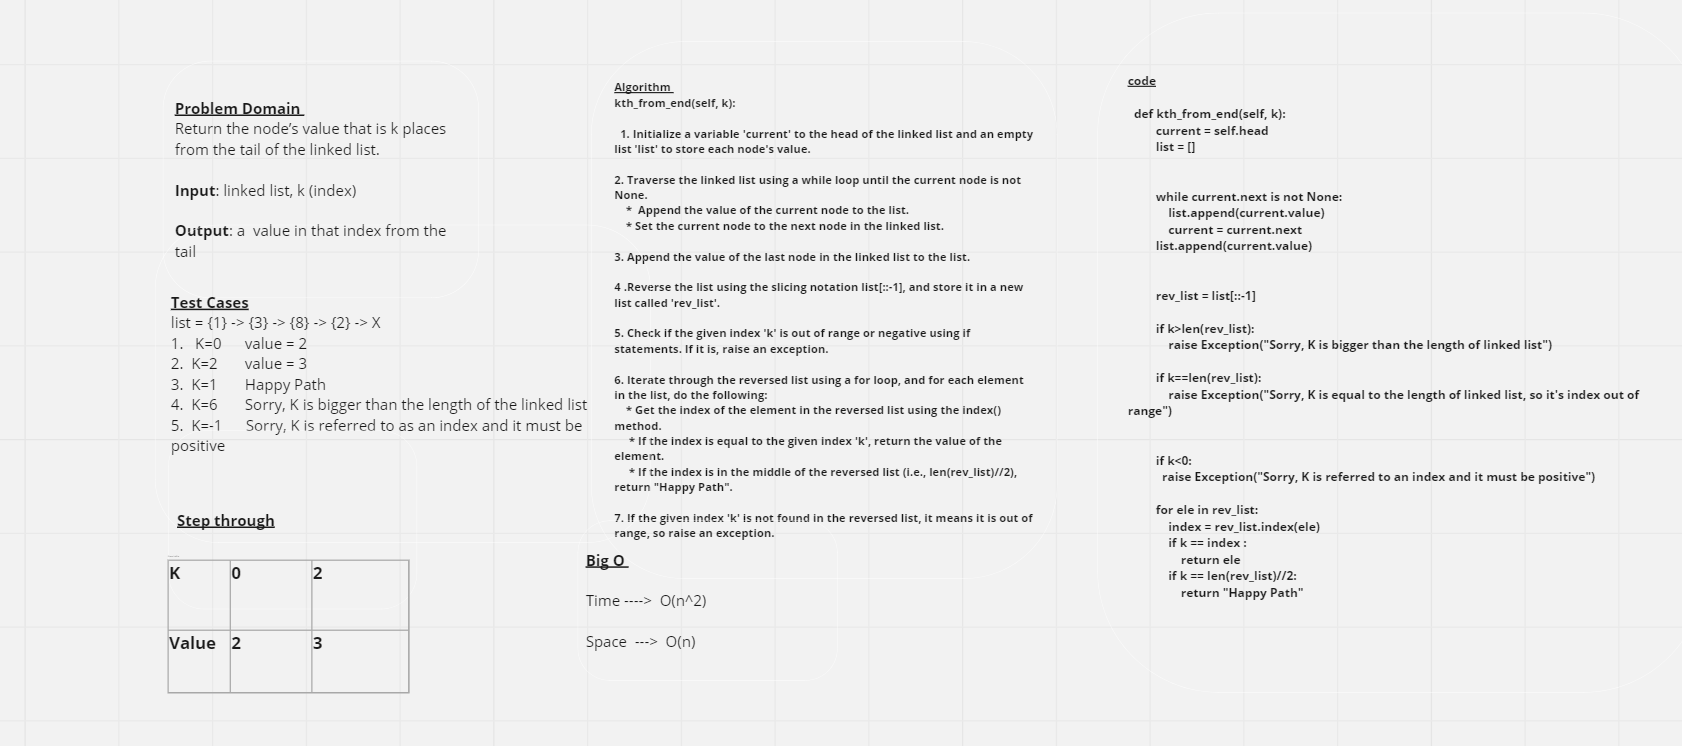
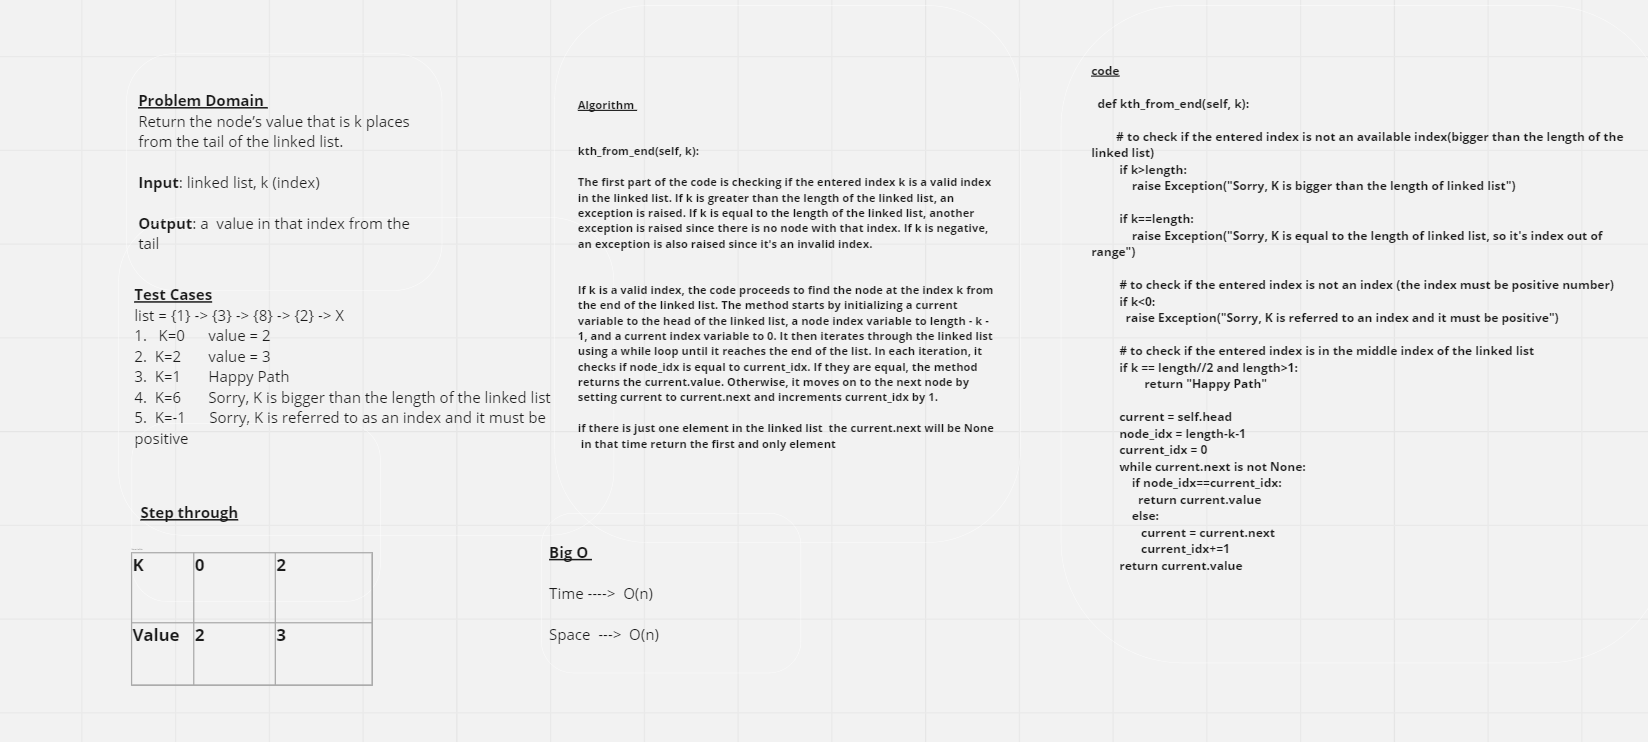
- [ ] Top-level README “Table of Contents” is updated  - [ ] README for this challenge is complete        - [ ] Summary, Description, Approach & Efficiency, Solution        - [ ] Picture of whiteboard        - [ ] Link to code  - [ ] Feature tasks for this challenge are completed  - [ ] Unit tests w

diff --git a/CC7/CC7_Code.py b/CC7/CC7_Code.py
@@ -1,4 +1,4 @@
-
+length = 0
 """This class is to create nodes which are the elements of any linked list"""
 class Node :
     def __init__(self, value):
@@ -6,24 +6,29 @@ class Node :
         self.value = value
         self.next = None
 
+
 """This class creating a linked list """
 class Linked_List:
      """this method intializes the head pointer which points to the fisrt node in the linked list """
      def __init__(self):
          self.head=None
+
     
      """this method to append node to the linked list, the node will be appended to the end of the linked list"""
      def append (self,value):
+         global  length
          node = Node(value)
 
          if self.head is None:
             self.head = node
+            length =1
 
          else:
             current = self.head
             while current.next is not None:
                 current = current.next
             current.next = node
+            length+=1
 
      """ this method is intended for the user to see the linked list after any changes if he/she want"""
      def __str__(self):
@@ -45,53 +50,85 @@ class Linked_List:
     
      """this method will return the node's value that is k places from the tail of the linked list."""
      def kth_from_end(self, k):
-         current = self.head
-         list = []
          
-        #  list.append(self.head.value)
-
-         while current.next is not None:
-             list.append(current.value)
-             current = current.next
-         list.append(current.value)
-
-        #  print(list)
-         rev_list = list[::-1]
-        #  print(rev_list)
         # to check if the entered index is not an available index(bigger than the length of the linked list)
-         if k>len(rev_list):
+         if k>length:
              raise Exception("Sorry, K is bigger than the length of linked list")
          
-         if k==len(rev_list):
+         if k==length:
              raise Exception("Sorry, K is equal to the length of linked list, so it's index out of range")
          
          # to check if the entered index is not an index (the index must be positive number)
          if k<0:
            raise Exception("Sorry, K is referred to an index and it must be positive")
          
-         for ele in rev_list:
-             index = rev_list.index(ele)
-             if k == index :
-                 return ele
-             # to check if the entered index is in the middle index to the linked list
-             if k == len(rev_list)//2:
+         # to check if the entered index is in the middle index of the linked list
+         if k == length//2 and length>1:
                  return "Happy Path"
+             
+
+         current = self.head
+         node_idx = length-k-1
+         current_idx = 0
+         while current.next is not None:
+             if node_idx==current_idx:
+               return current.value
+             else:
+                current = current.next
+                current_idx+=1
+         return current.value
+             
+
+        #  list = []
+         
+        # #  list.append(self.head.value)
+
+        #  while current.next is not None:
+        #      list.append(current.value)
+        #      current = current.next
+        #  list.append(current.value)
+
+        # #  print(list)
+        #  rev_list = list[::-1]
+        # #  print(rev_list)
+        # # to check if the entered index is not an available index(bigger than the length of the linked list)
+        #  if k>len(rev_list):
+        #      raise Exception("Sorry, K is bigger than the length of linked list")
+         
+        #  if k==len(rev_list):
+        #      raise Exception("Sorry, K is equal to the length of linked list, so it's index out of range")
+         
+        #  # to check if the entered index is not an index (the index must be positive number)
+        #  if k<0:
+        #    raise Exception("Sorry, K is referred to an index and it must be positive")
+         
+        #  for ele in rev_list:
+        #      index = rev_list.index(ele)
+        #      if k == index :
+        #          return ele
+        #      # to check if the entered index is in the middle index to the linked list
+        #      if k == len(rev_list)//2:
+        #          return "Happy Path"
+
+       
 
 
 if __name__ == "__main__" :
 
     # test instantiate an empty linked list 
     test_link_list = Linked_List()
-    # # print( test_link_list)
+    # # # print( test_link_list)
 
     # # test append method
-    # test_link_list.append(1)
+    test_link_list.append(1)
     # test_link_list.append(3)
     # test_link_list.append(8)
     # test_link_list.append(2)
 
+    # print(count)
+
     # # print( test_link_list)
     # print(test_link_list.kth_from_end(0))
-    # # print(test_link_list.kth_from_end(2))
+    print(test_link_list.kth_from_end(0))
     
     
